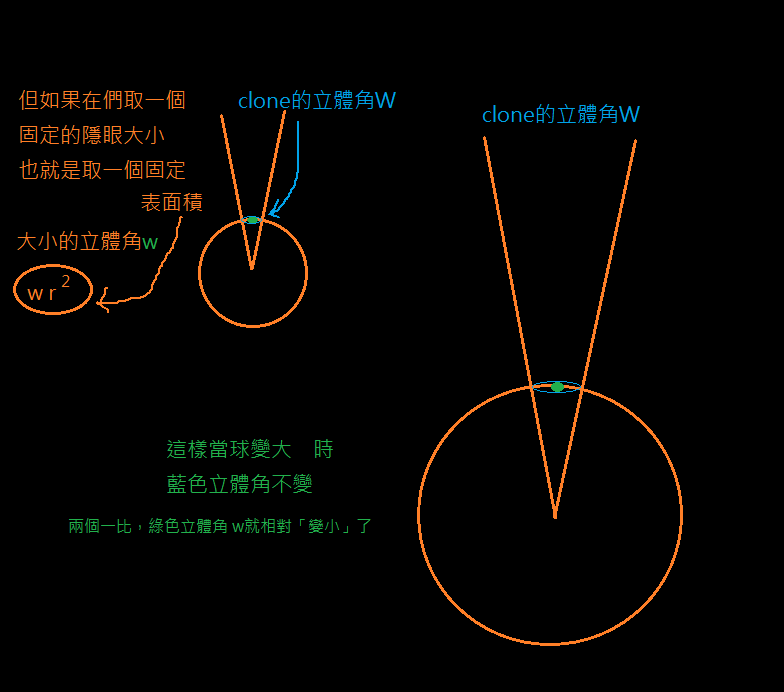
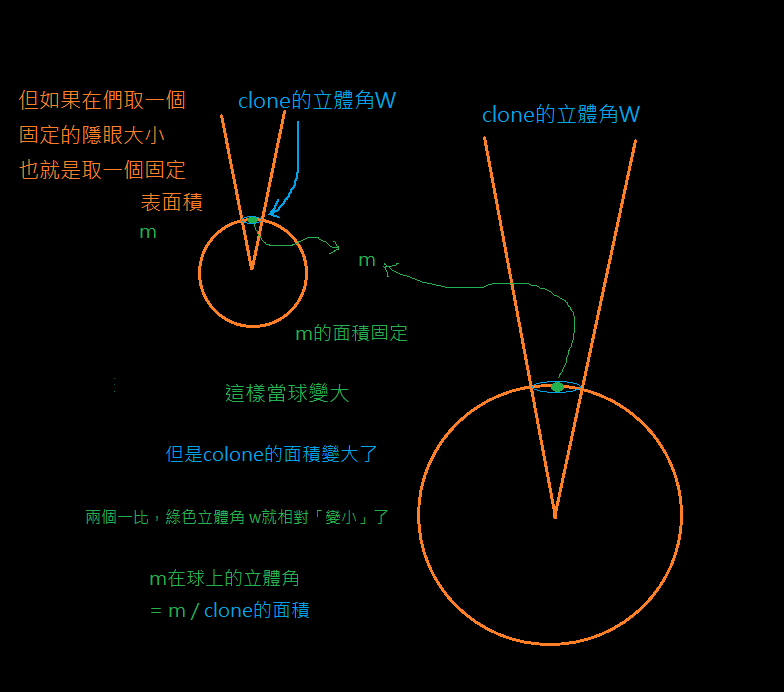
改圖讓意思更清楚

diff --git a/what_is_radiance.html b/what_is_radiance.html
@@ -3245,7 +3245,7 @@
 			<div class="single">
 				<div class="discussContent">
 
-					取一個表面積m = w * r * r，當球變大、變小，這個表面積就是不屈服的始終一樣大
+					取一個表面積m 當球變大、變小，這個表面積就是不屈服的始終一樣大
 				</div>
 				<div class="discussMeta">
 					<a style="color: red; --darkreader-inline-color:#c65652;" target="_blank"
